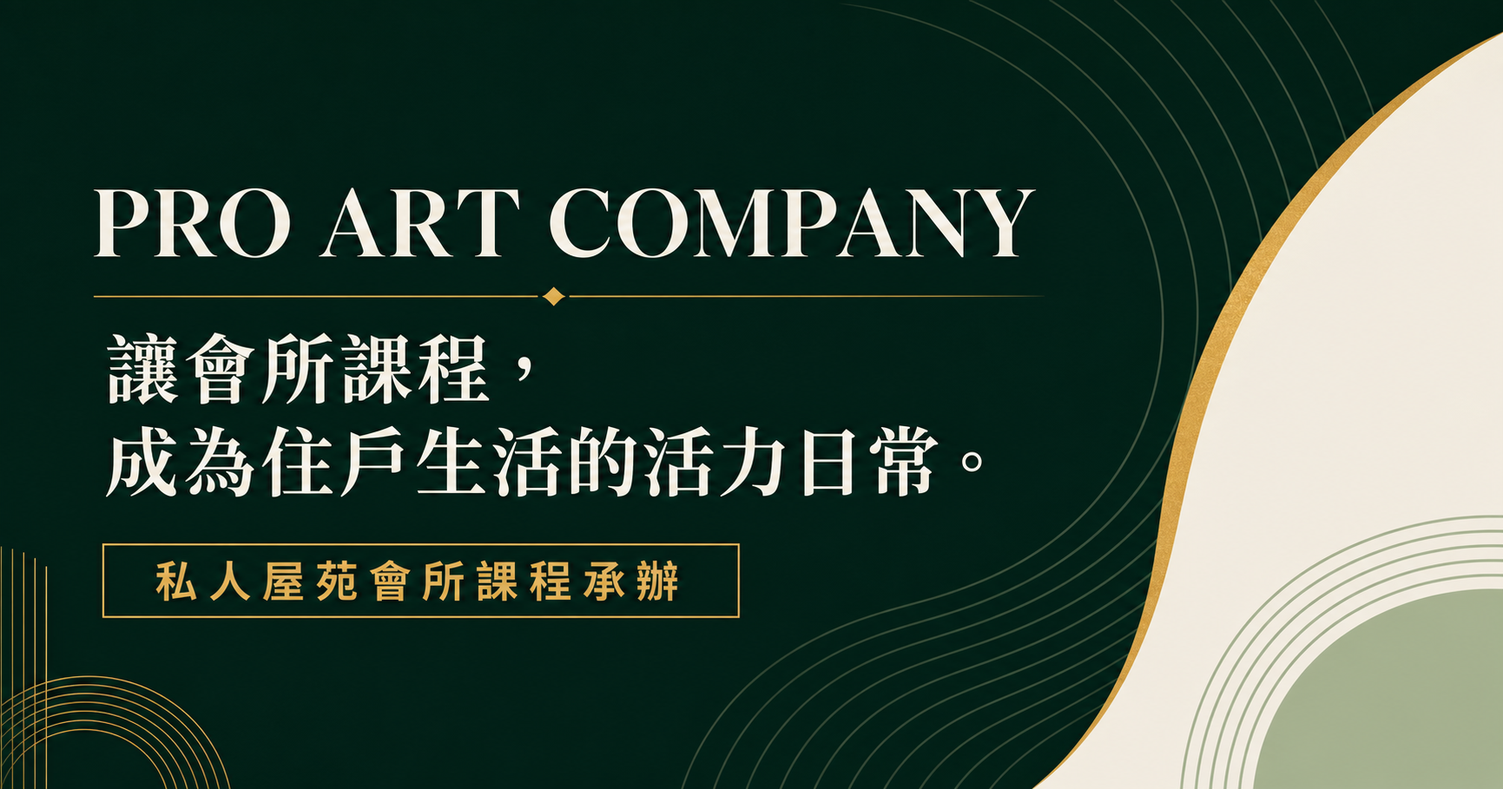
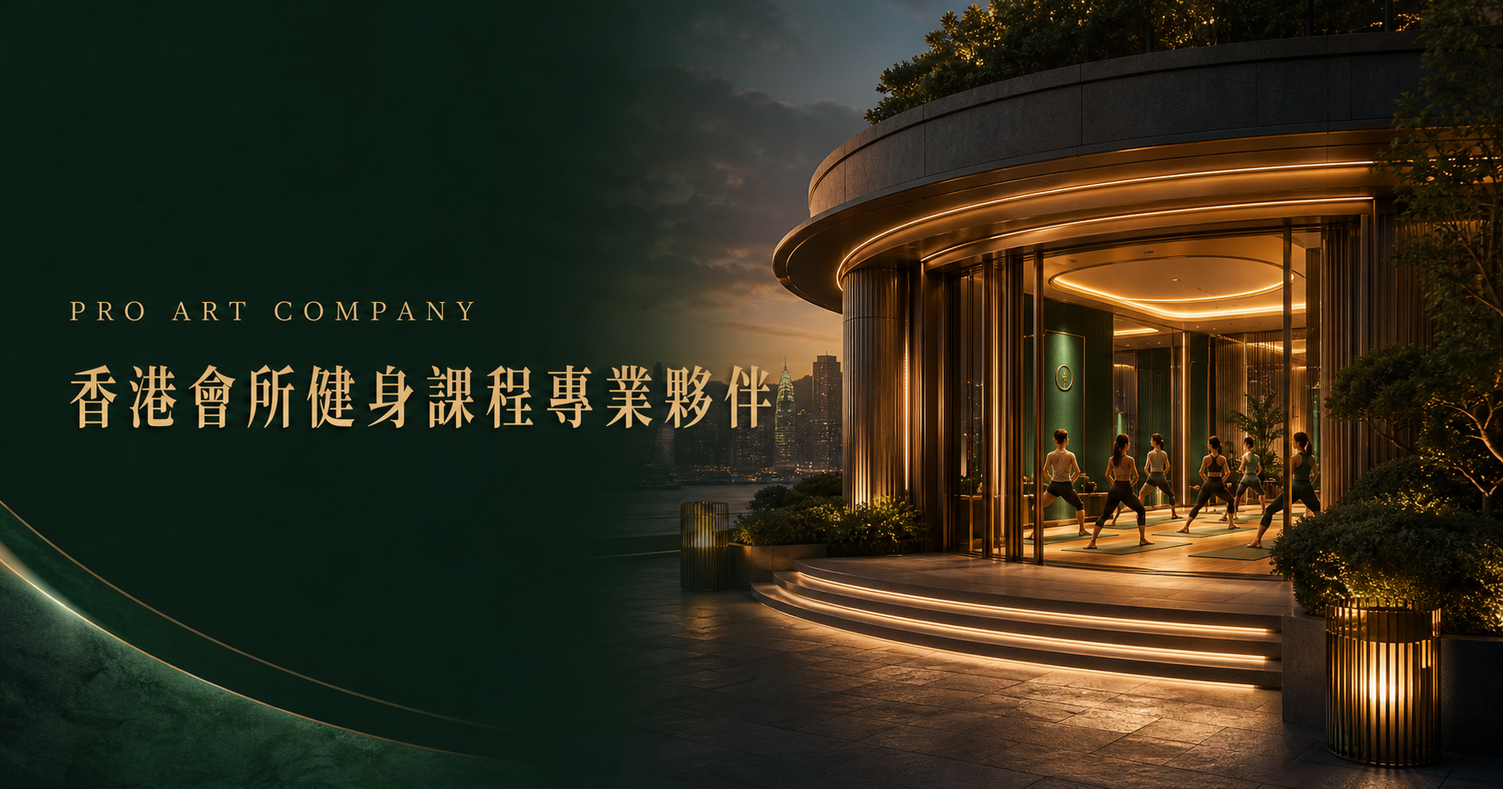
feat: build nine-chapter Pro Art scroll world

diff --git a/app/globals.css b/app/globals.css
@@ -1,22 +1,16 @@
 @import "tailwindcss";
-
-:root{--ink:#10281f;--deep:#092219;--green:#174f3b;--sage:#b8c6a8;--gold:#d8aa52;--cream:#f3efe5;--paper:#fbf9f3;--line:rgba(16,40,31,.16);--scroll:0;--font-sans:-apple-system,BlinkMacSystemFont,"PingFang HK","Noto Sans TC","Microsoft JhengHei",sans-serif;--font-serif:"Songti TC","Noto Serif TC","PMingLiU",Georgia,serif}
-*{box-sizing:border-box}html{scroll-behavior:smooth;overflow-x:hidden}body{margin:0;background:var(--cream);color:var(--ink);font-family:var(--font-sans),"PingFang HK","Microsoft JhengHei",sans-serif;overflow-x:hidden}main{width:100%;overflow:hidden}a{color:inherit;text-decoration:none}button{font:inherit}::selection{background:var(--gold);color:var(--deep)}
-.progress{position:fixed;z-index:100;inset:0 auto auto 0;width:100%;height:3px;background:var(--gold);transform:scaleX(var(--scroll));transform-origin:left}
-.nav-shell{position:absolute;z-index:20;top:0;left:0;width:100%;display:flex;align-items:center;justify-content:space-between;padding:25px clamp(24px,5vw,76px)}
-.brand{display:flex;align-items:center;gap:11px;font:650 14px/1 var(--font-sans);letter-spacing:.14em}.brand small{display:block;font-size:8px;letter-spacing:.29em;margin-top:5px}.brand-mark{width:41px;height:41px;display:grid;place-items:center;border:1px solid currentColor;border-radius:50%;font:600 12px/1 Georgia,serif;letter-spacing:.05em}
-nav{display:flex;align-items:center;gap:30px;font-size:13px}nav a{opacity:.72;transition:.25s}nav a:hover{opacity:1}.nav-cta{opacity:1!important;border:1px solid var(--ink);border-radius:100px;padding:11px 20px}.menu-button{display:none;border:0;background:none;width:40px;height:40px}.menu-button i{display:block;width:24px;height:1px;background:currentColor;margin:7px auto}
-.hero{position:relative;min-height:100svh;padding:160px clamp(24px,7vw,110px) 90px;display:grid;grid-template-columns:1.1fr .7fr;align-items:center;gap:9vw;overflow:hidden;background:radial-gradient(circle at 73% 43%,rgba(216,170,82,.12),transparent 26%),var(--cream)}
-.hero-copy{position:relative;z-index:2;max-width:780px}.eyebrow{font-size:11px;font-weight:750;letter-spacing:.27em;color:var(--green);margin:0 0 25px}.eyebrow.light{color:var(--gold)}h1,h2,h3,p{margin-top:0}.hero h1,.section-intro h2,.services h2,.proof h2,.model h2,.team h2,.contact h2{font-family:var(--font-serif),"Songti TC",Georgia,serif;font-weight:500;letter-spacing:-.035em}.hero h1{font-size:clamp(45px,6.7vw,94px);line-height:1.1;margin:0}.hero h1 em,.contact h2 em{color:var(--green);font-style:normal}.hero-lead{max-width:580px;margin:30px 0 0;color:#4d5f57;font-size:clamp(15px,1.5vw,19px);line-height:1.9}.hero-actions{display:flex;align-items:center;gap:32px;margin-top:38px}.button{display:inline-flex;align-items:center;justify-content:center;gap:35px;border-radius:100px;padding:16px 26px;font-weight:650;font-size:14px;transition:.25s}.button span{font-size:18px}.button-primary{background:var(--green);color:white;box-shadow:0 14px 32px rgba(23,79,59,.2)}.button:hover{transform:translateY(-3px)}.text-link{font-size:13px;border-bottom:1px solid var(--ink);padding:12px 0}.text-link span{margin-left:20px}.hero-card{position:relative;z-index:2;justify-self:center;width:min(340px,90%);aspect-ratio:.78;background:var(--deep);color:var(--cream);border-radius:170px 170px 18px 18px;padding:90px 48px 45px;display:flex;flex-direction:column;align-items:center;text-align:center;box-shadow:30px 40px 80px rgba(9,34,25,.19);transform:translateY(calc(var(--scroll) * 70px))}.card-kicker{font-size:8px;letter-spacing:.24em;color:var(--gold)}.hero-card strong{font:500 clamp(27px,3vw,40px)/1.45 var(--font-serif),serif;margin:28px 0}.card-line{width:1px;height:54px;background:var(--gold)}.hero-card p{font-size:12px;line-height:1.8;color:#bccbc3;margin:20px 0 0}.hero-orbit{position:absolute;border:1px solid rgba(23,79,59,.18);border-radius:50%;aspect-ratio:1}.orbit-one{width:570px;right:-120px;top:13%}.orbit-two{width:370px;right:-20px;top:25%}.scroll-cue{position:absolute;right:5vw;bottom:30px;display:flex;align-items:center;gap:14px;font-size:8px;letter-spacing:.25em;transform:rotate(90deg);transform-origin:right}.scroll-cue i{display:block;width:60px;height:1px;background:var(--ink)}
-.marquee{overflow:hidden;background:var(--gold);color:var(--deep);padding:15px 0;white-space:nowrap;font:650 11px/1 var(--font-sans);letter-spacing:.26em}.marquee div{width:max-content;animation:marquee 25s linear infinite}@keyframes marquee{to{transform:translateX(-50%)}}
-.section-pad{padding:clamp(90px,12vw,175px) clamp(24px,7vw,110px)}.section-intro{display:grid;grid-template-columns:.7fr 1.2fr 1fr;gap:6vw;align-items:start;margin-bottom:90px}.section-intro h2,.services h2,.proof h2,.model h2,.team h2,.contact h2{font-size:clamp(36px,5vw,68px);line-height:1.15;margin:0}.section-intro>p:last-child,.services-sticky>p:last-child,.proof-copy>p:last-child,.model-head>p:last-child{color:#57665f;line-height:1.9;max-width:470px}
-.courses{background:var(--paper)}.course-list{border-top:1px solid var(--line)}.course-row{display:grid;grid-template-columns:80px 1fr .8fr 1.2fr 30px;align-items:center;gap:25px;border-bottom:1px solid var(--line);padding:28px 8px;transition:.3s}.course-row:hover{background:var(--cream);padding-left:22px;padding-right:22px}.course-row>span{font-size:10px;color:var(--gold)}.course-row h3{font:500 clamp(25px,3vw,40px)/1 var(--font-serif),serif;margin:0}.course-row p{font-size:12px;letter-spacing:.13em;margin:0;color:var(--green)}.course-row small{color:#607068}.course-row i{font-style:normal;font-size:20px}
-.services{background:var(--deep);color:var(--cream);display:grid;grid-template-columns:.9fr 1fr;gap:9vw;align-items:start}.services-sticky{position:sticky;top:100px}.services-sticky>p:last-child{color:#9eafa6;margin-top:32px}.benefit-stack{display:grid;gap:22px}.benefit-card{position:sticky;top:110px;background:#123b2e;border:1px solid rgba(255,255,255,.1);border-radius:22px;padding:35px;min-height:270px;box-shadow:0 20px 45px rgba(0,0,0,.16)}.benefit-card:nth-child(2){top:130px}.benefit-card:nth-child(3){top:150px}.benefit-card:nth-child(4){top:170px}.benefit-card>span{font-size:10px;color:var(--gold)}.benefit-icon{float:right;font:200 40px/1 serif;color:var(--gold)}.benefit-card h3{font:500 29px/1.3 var(--font-serif),serif;margin:72px 0 16px}.benefit-card p{color:#a9bab1;line-height:1.8;font-size:14px;max-width:430px}
-.proof{background:var(--sage)}.proof-copy{display:grid;grid-template-columns:.7fr 1.2fr 1fr;gap:6vw;align-items:start}.stats{display:grid;grid-template-columns:repeat(3,1fr);margin-top:95px;border-top:1px solid rgba(16,40,31,.28);border-bottom:1px solid rgba(16,40,31,.28)}.stats>div{padding:50px 20px}.stats>div+div{border-left:1px solid rgba(16,40,31,.28)}.stats strong{font:500 clamp(70px,10vw,145px)/.85 var(--font-serif),serif;letter-spacing:-.07em}.stats strong span{font-size:.4em;color:var(--green)}.stats p{font-weight:700;margin:28px 0 6px}.stats small{font-size:8px;letter-spacing:.2em}.privacy-note{text-align:right;font-size:11px;opacity:.6;margin-top:18px}
-.model{background:var(--green);color:var(--cream);display:grid;grid-template-columns:.9fr 1fr;gap:10vw}.model-head>p:last-child{color:#b3c4bb}.split{display:grid;grid-template-columns:auto auto 1fr auto auto;align-items:end;gap:10px;margin:55px 0 25px}.split strong{font:500 clamp(52px,7vw,90px)/1 var(--font-serif),serif;color:var(--gold)}.split small{font-size:.35em}.split span{font-size:11px;margin-bottom:10px}.split i{height:1px;background:rgba(255,255,255,.25);margin:0 10px 15px}.process{border-top:1px solid rgba(255,255,255,.22)}.process article{display:grid;grid-template-columns:60px 1fr;gap:25px;padding:30px 5px;border-bottom:1px solid rgba(255,255,255,.22)}.process>article>span{color:var(--gold);font-size:10px}.process h3{font:500 26px/1.2 var(--font-serif),serif;margin-bottom:10px}.process p{font-size:13px;line-height:1.7;color:#b3c4bb}
-.team{background:var(--cream);display:grid;grid-template-columns:.8fr 1fr;gap:8vw;align-items:center}.team-placeholder{min-height:420px;border:1px solid var(--line);border-radius:220px 220px 24px 24px;padding:70px 60px 45px;text-align:center;background:var(--paper);overflow:hidden}.team-rings{display:flex;justify-content:center;margin-bottom:40px}.team-rings i{width:72px;height:72px;border:1px solid var(--green);border-radius:50%;margin-left:-14px;background:var(--paper)}.team-placeholder span{font-size:9px;color:var(--gold);letter-spacing:.25em}.team-placeholder h3{font:500 28px/1.3 var(--font-serif),serif;margin:15px 0}.team-placeholder p{max-width:480px;margin:auto;color:#607068;line-height:1.8;font-size:14px}
-.contact{background:var(--deep);color:var(--cream)}.contact-grid{display:grid;grid-template-columns:1fr .9fr;gap:9vw}.contact h2{font-size:clamp(48px,7vw,92px)}.contact h2 em{color:var(--gold)}.contact-grid>div>p{color:#a2b4aa;max-width:500px;line-height:1.8;margin:30px 0}.button-gold{background:var(--gold);color:var(--deep)}address{font-style:normal;border-top:1px solid rgba(255,255,255,.2)}address>a,address>div{display:block;padding:26px 0;border-bottom:1px solid rgba(255,255,255,.2)}address small{display:block;font-size:8px;letter-spacing:.23em;color:var(--gold);margin-bottom:10px}address strong{font-size:clamp(15px,1.5vw,20px);line-height:1.6;word-break:break-word}address span{display:block;color:#82958b;font-size:11px;line-height:1.6;margin-top:8px}
-footer{background:#061812;color:#95a89f;padding:35px clamp(24px,7vw,110px);display:grid;grid-template-columns:1fr 1fr 1fr;align-items:center;font-size:11px}footer p{text-align:center;margin:0}.footer-brand{color:var(--cream)}footer>small{text-align:right}
-[data-reveal]{opacity:0;transform:translateY(35px);transition:opacity .8s ease,transform .8s cubic-bezier(.2,.7,.2,1)}[data-reveal].is-visible{opacity:1;transform:none}
-@media(max-width:800px){.nav-shell{position:absolute;padding:18px 20px}.menu-button{display:block;z-index:2}nav{display:none;position:absolute;top:0;right:0;width:min(330px,88vw);height:100vh;background:var(--paper);padding:100px 35px;flex-direction:column;align-items:flex-start;box-shadow:-20px 0 50px rgba(0,0,0,.1)}nav.open{display:flex}.hero{grid-template-columns:1fr;padding:130px 24px 90px}.hero-card{display:none}.hero h1{font-size:clamp(43px,13vw,68px)}.orbit-one{width:380px}.scroll-cue{display:none}.section-intro,.proof-copy,.services,.model,.team,.contact-grid{grid-template-columns:1fr}.section-intro{margin-bottom:55px}.course-row{grid-template-columns:35px 1fr auto}.course-row p{display:none}.course-row small{grid-column:2/4}.services-sticky{position:relative;top:0;margin-bottom:30px}.benefit-card,.benefit-card:nth-child(n){position:relative;top:0}.stats{grid-template-columns:1fr}.stats>div+div{border-left:0;border-top:1px solid rgba(16,40,31,.28)}.stats>div{padding:35px 5px}.stats strong{font-size:90px}.privacy-note{text-align:left}.team-placeholder{padding:65px 25px 40px;min-height:380px}.contact-grid{gap:60px}footer{grid-template-columns:1fr;gap:22px;text-align:center}footer p,footer>small{text-align:center}.footer-brand{justify-self:center}}
-@media(prefers-reduced-motion:reduce){html{scroll-behavior:auto}.marquee div{animation:none}[data-reveal]{opacity:1;transform:none;transition:none}.hero-card{transform:none}}
+:root{--green:#1e5b41;--gold:#c8a45d;--ink:#08150f;--cream:#f7f4ee;--ease:cubic-bezier(.16,1,.3,1)}
+*{box-sizing:border-box}html{background:var(--ink);scrollbar-color:var(--gold) var(--ink)}body{margin:0;color:var(--cream);font-family:-apple-system,BlinkMacSystemFont,"PingFang HK","Noto Sans TC",sans-serif;background:var(--ink);overflow-x:hidden}a{color:inherit;text-decoration:none}::selection{background:var(--gold);color:var(--ink)}
+.world-canvas{position:fixed;inset:0;width:100%;height:100%;z-index:1;pointer-events:none;mix-blend-mode:screen}.nav{position:fixed;inset:0 0 auto;z-index:50;height:86px;padding:18px clamp(18px,4vw,64px);display:flex;align-items:center;justify-content:space-between;background:linear-gradient(#07150fbb,transparent)}.brand{display:flex;align-items:center;gap:11px;font-size:13px;font-weight:700;letter-spacing:.17em}.brand small{display:block;font-size:7px;letter-spacing:.32em;margin-top:4px}.brand-disc{width:42px;height:42px;border:1px solid #ffffff99;border-radius:50%;display:grid;place-items:center;font-family:Georgia,serif;font-size:11px;letter-spacing:.03em}.nav-cta{border:1px solid #ffffff66;border-radius:30px;padding:12px 18px;font-size:12px;font-weight:650;backdrop-filter:blur(12px);transition:.3s}.nav-cta:hover{background:var(--gold);border-color:var(--gold);color:var(--ink)}.nav-world{position:absolute;left:50%;transform:translateX(-50%);display:flex;align-items:center;gap:12px;color:#ffffff99;font-size:9px;letter-spacing:.18em}.nav-world i{display:block;width:110px;height:1px;background:#ffffff2c;position:relative}.nav-world i:after{content:"";position:absolute;inset:0;background:var(--gold);transform-origin:left;transform:scaleX(var(--p))}
+.rail{position:fixed;z-index:30;right:20px;top:50%;transform:translateY(-50%);display:flex;flex-direction:column;gap:8px}.rail a{height:18px;display:flex;align-items:center;justify-content:flex-end;gap:8px;color:#ffffff66;font-size:7px}.rail i{display:block;width:10px;height:1px;background:currentColor;transition:.4s}.rail a.active{color:var(--gold)}.rail a.active i{width:28px}
+.chapter{position:relative;min-height:100svh;overflow:hidden;display:flex;align-items:center;padding:130px clamp(24px,8vw,130px) 105px;isolation:isolate}.scene{position:absolute;inset:0;z-index:-4;overflow:hidden;background:var(--green)}.scene-image{object-fit:cover;transform:scale(1.02);will-change:transform,filter}.scene-grade{position:absolute;inset:0;background:linear-gradient(90deg,rgba(5,16,11,.9) 0%,rgba(5,16,11,.55) 45%,rgba(5,16,11,.16) 72%),linear-gradient(0deg,rgba(4,14,10,.55),transparent 40%,rgba(4,14,10,.35))}.copy-right{justify-content:flex-end}.copy-right .scene-grade{background:linear-gradient(-90deg,rgba(5,16,11,.91),rgba(5,16,11,.5) 48%,rgba(5,16,11,.1) 78%),linear-gradient(0deg,rgba(4,14,10,.6),transparent 50%)}.chapter-copy{width:min(670px,75vw);position:relative;z-index:4}.kicker{display:flex;align-items:center;gap:14px;font-size:10px;font-weight:750;letter-spacing:.25em;color:#fffbdc;margin:0 0 26px}.kicker span{display:grid;place-items:center;width:34px;height:34px;border:1px solid var(--gold);border-radius:50%;color:var(--gold);letter-spacing:0}.chapter h1{font-family:"Songti TC","Noto Serif TC",Georgia,serif;font-size:clamp(46px,6.5vw,96px);font-weight:500;letter-spacing:-.06em;line-height:1.04;margin:0;text-wrap:balance;text-shadow:0 3px 30px #0006}.chapter h1 span{display:block}.chapter-text{max-width:580px;color:#eef3edcc;font-size:clamp(14px,1.3vw,18px);line-height:1.85;margin:26px 0 0}.badge{display:inline-flex;align-items:center;gap:9px;margin:18px 0 0;padding:8px 13px;border:1px solid #ffffff33;border-radius:50px;background:#06150e77;font-size:10px;letter-spacing:.1em}.badge i{width:6px;height:6px;border-radius:50%;background:var(--gold);box-shadow:0 0 15px var(--gold)}.chapter-cta{display:flex;width:max-content;align-items:center;gap:24px;border-bottom:1px solid var(--gold);padding:13px 0;margin-top:26px;font-size:13px;font-weight:650}.chapter-cta span{color:var(--gold)}.chapter-foot{position:absolute;z-index:5;left:clamp(24px,4vw,64px);right:clamp(24px,4vw,64px);bottom:28px;display:grid;grid-template-columns:70px auto 1fr;align-items:center;gap:15px;color:#ffffff77;font-size:8px;letter-spacing:.2em;text-transform:uppercase}.chapter-foot i{height:1px;background:#ffffff28}
+.chapter-door .scene{clip-path:inset(0)}.door-panels,.elevator-panels,.curtains{position:absolute;inset:0;z-index:3;pointer-events:none}.door-panels i{position:absolute;top:0;bottom:0;width:50%;background:linear-gradient(120deg,#082117,#173f30);transform-origin:left;animation:door-open linear both;animation-timeline:view();animation-range:entry 0% entry 65%}.door-panels i+ i{right:0;transform-origin:right;animation-name:door-open-r}@keyframes door-open{to{transform:perspective(900px) rotateY(-105deg)}}@keyframes door-open-r{to{transform:perspective(900px) rotateY(105deg)}}
+.chapter-mirror:after{content:"";position:absolute;inset:-20%;z-index:2;background:linear-gradient(105deg,transparent 35%,#fff9 49%,#c8a45daa 50%,transparent 63%);transform:translateX(-80%);animation:mirror-sweep linear both;animation-timeline:view();animation-range:entry 0% entry 70%}@keyframes mirror-sweep{to{transform:translateX(80%)}}
+.elevator-panels{display:flex}.elevator-panels i{width:50%;height:100%;background:linear-gradient(90deg,#101713,#415049,#101713);animation:elevator-left linear both;animation-timeline:view();animation-range:entry 8% entry 70%}.elevator-panels i+ i{animation-name:elevator-right}.elevator-panels b{position:absolute;left:50%;top:15%;transform:translateX(-50%);color:var(--gold);font:400 12px/1 monospace}@keyframes elevator-left{to{transform:translateX(-100%)}}@keyframes elevator-right{to{transform:translateX(100%)}}
+.curtains{display:flex}.curtains i{width:51%;height:100%;background:repeating-linear-gradient(90deg,#132f25 0,#285841 6%,#0c241a 12%);filter:drop-shadow(10px 0 20px #000);animation:curtain-left linear both;animation-timeline:view();animation-range:entry 5% entry 65%}.curtains i+ i{animation-name:curtain-right}@keyframes curtain-left{to{transform:translateX(-96%) skewX(4deg)}}@keyframes curtain-right{to{transform:translateX(96%) skewX(-4deg)}}
+.chapter-prism:after{content:"";position:absolute;inset:0;z-index:2;background:conic-gradient(from 30deg at 65% 40%,transparent,#d8faffaa,#ffd67c99,#66e3b966,transparent);mix-blend-mode:screen;animation:prism linear both;animation-timeline:view();animation-range:entry 0 entry 60%}@keyframes prism{from{opacity:1;transform:scale(2) rotate(-15deg)}to{opacity:0;transform:scale(.6) rotate(20deg)}}
+.ripples{position:absolute;z-index:3;inset:0;display:grid;place-items:center;pointer-events:none}.ripples i{position:absolute;width:20vmin;aspect-ratio:1;border:2px solid #e4fff4aa;border-radius:50%;animation:ripple linear both;animation-timeline:view();animation-range:entry 0% entry 68%}.ripples i:nth-child(2){animation-delay:.08s}.ripples i:nth-child(3){animation-delay:.16s}@keyframes ripple{to{transform:scale(11);opacity:0}}
+.trust-grid{display:grid;grid-template-columns:repeat(4,1fr);margin-top:28px;border-top:1px solid #ffffff3d;border-bottom:1px solid #ffffff3d}.trust-grid>div{padding:17px 12px;border-right:1px solid #ffffff2d}.trust-grid strong{display:block;font:500 clamp(31px,4vw,56px)/1 Georgia,serif;color:var(--gold)}.trust-grid sup{font-size:.4em}.trust-grid small{font-size:.45em}.trust-grid span{font-size:9px;color:#ffffffaa}.final-actions{display:flex;gap:12px;margin-top:32px}.cta{border-radius:100px;padding:16px 22px;font-size:13px;font-weight:700}.cta.primary{background:var(--gold);color:var(--ink)}.cta.secondary{border:1px solid #ffffff66;backdrop-filter:blur(12px)}
+.team-note{text-align:center;padding:90px 24px;background:var(--cream);color:var(--green)}.team-note>span{font-size:9px;letter-spacing:.22em;color:#8d713d}.team-note h2{font:500 clamp(30px,4vw,52px)/1.2 "Songti TC","Noto Serif TC",serif;margin:18px 0}.team-note p{font-size:13px;color:#4e675b}.team-note+footer{position:relative;z-index:4}footer{background:#06120d;padding:50px clamp(24px,6vw,90px);display:grid;grid-template-columns:1.1fr 1fr 1.4fr auto;gap:35px;align-items:center;color:#b7c1bb;font-size:11px}.footer-brand{display:flex;align-items:center;gap:13px;color:white}.footer-brand strong,.footer-brand span{display:block}.footer-brand span{margin-top:5px;font-size:9px;color:#91a299}.footer-links{display:flex;flex-direction:column;gap:8px}address{font-style:normal;line-height:1.7}.wa-float{position:fixed;z-index:80;right:22px;bottom:22px;display:flex;align-items:center;gap:10px;background:#25d366;color:#07150e;border:4px solid #ffffff33;border-radius:100px;padding:7px 14px 7px 7px;box-shadow:0 12px 40px #0007;font-size:11px;font-weight:800}.wa-float>span{width:38px;height:38px;border-radius:50%;background:white;display:grid;place-items:center;font-size:9px}.wa-float i{font-style:normal}
+@media(max-width:760px){.nav{height:70px;padding:13px 16px}.brand-disc{width:38px;height:38px}.nav-world,.rail{display:none}.nav-cta{padding:10px 13px}.nav-cta span{display:none}.chapter{min-height:100svh;padding:110px 22px 100px;align-items:flex-end}.chapter-copy{width:100%}.chapter h1{font-size:clamp(41px,12.5vw,62px);line-height:1.05}.chapter-text{font-size:14px;line-height:1.7;margin-top:18px}.scene-image{object-position:57% center}.scene-grade,.copy-right .scene-grade{background:linear-gradient(0deg,rgba(5,16,11,.97) 2%,rgba(5,16,11,.68) 48%,rgba(5,16,11,.12) 82%)}.kicker{margin-bottom:15px}.chapter-cta{font-size:12px;margin-top:18px}.chapter-foot{bottom:19px;left:22px;right:22px}.trust-grid{grid-template-columns:repeat(2,1fr)}.trust-grid>div:nth-child(2){border-right:0}.trust-grid>div:nth-child(-n+2){border-bottom:1px solid #ffffff2d}.final-actions{flex-direction:column;width:max-content}.cta{text-align:center}.wa-float{right:14px;bottom:14px;padding:5px;border-width:3px}.wa-float>span{width:43px;height:43px}.wa-float i{display:none}footer{grid-template-columns:1fr;gap:24px;padding-bottom:100px}footer>small{color:#748279}.team-note{padding:75px 24px}.chapter-ripple{padding-top:86px}.chapter-ripple h1{font-size:40px}.chapter-ripple .chapter-text{margin-bottom:8px}}
+@media(prefers-reduced-motion:reduce){html{scroll-behavior:auto}.world-canvas{display:none}.scene-image,.door-panels i,.elevator-panels i,.curtains i,.chapter-mirror:after,.chapter-prism:after,.ripples i{animation:none!important;transform:none!important}.door-panels,.elevator-panels,.curtains,.chapter-mirror:after,.chapter-prism:after,.ripples{display:none}.chapter-copy{opacity:1!important;transform:none!important}}

diff --git a/app/page.tsx b/app/page.tsx
@@ -1,132 +1,114 @@
 "use client";
 
-import { useEffect, useState } from "react";
+import { useEffect, useRef, useState } from "react";
+import Image from "next/image";
+import Lenis from "lenis";
+import gsap from "gsap";
+import { ScrollTrigger } from "gsap/ScrollTrigger";
+import * as THREE from "three";
 
-const courses = [
-  { no: "01", zh: "瑜伽", en: "Yoga", note: "呼吸・伸展・身心平衡" },
-  { no: "02", zh: "普拉提", en: "Pilates", note: "核心・姿勢・穩定訓練" },
-  { no: "03", zh: "健康舞", en: "Aerobic", note: "帶氧・節奏・活力體能" },
-  { no: "04", zh: "尊巴", en: "Zumba", note: "音樂・舞動・全身燃動" },
-  { no: "05", zh: "排舞", en: "Line Dance", note: "步法・協調・社交樂趣" },
+const message = encodeURIComponent("你好，我哋會所想查詢健身課程合作方案。");
+const whatsapp = `https://wa.me/85296803500?text=${message}`;
+
+type Chapter = {
+  no: string; kicker: string; title: string; text: string; image: string;
+  transition: string; transitionLabel: string; badge?: string; align?: "left" | "right";
+};
+
+const chapters: Chapter[] = [
+  { no:"01", kicker:"WELCOME TO PRO ART", title:"踏進一個\n更有活力的社區。", text:"Pro Art Company — 香港私人屋苑會所嘅專業健身課程夥伴。", image:"/images/hero-clubhouse.png", transition:"push", transitionLabel:"鏡頭推進" },
+  { no:"02", kicker:"THE STUDIO AWAITS", title:"五種節奏，\n一個專業夥伴。", text:"瑜伽・普拉提・健康舞・Zumba・排舞，由策劃、導師到行政，一站式妥善處理。", image:"/images/hero-clubhouse.png", transition:"door", transitionLabel:"開門過場", align:"right" },
+  { no:"03", kicker:"YOGA · 瑜伽", title:"由一呼一吸，\n找回身心平衡。", text:"配合不同程度，以呼吸、伸展與穩定練習，讓住戶建立持續的健康習慣。", image:"/images/course-yoga.png", transition:"fly", transitionLabel:"穿越門框", badge:"每週人氣課程" },
+  { no:"04", kicker:"LINE DANCE · 排舞", title:"一步一拍，\n舞出社區默契。", text:"由基本步法到完整舞序，兼顧協調、記憶與社交樂趣，適合恆常小班。", image:"/images/course-linedance.png", transition:"mirror", transitionLabel:"鏡面穿越", align:"right", badge:"輕鬆入門" },
+  { no:"05", kicker:"PILATES · 普拉提", title:"核心穩定，\n動作更有力量。", text:"集中核心控制、姿勢與身體覺察，為不同體能住戶設計循序漸進的課堂。", image:"/images/course-yoga.png", transition:"elevator", transitionLabel:"電梯轉場", badge:"小班指導" },
+  { no:"06", kicker:"AEROBIC · 健康舞", title:"拉開布幕，\n讓活力登場。", text:"簡單易跟的帶氧動作配合熟悉節奏，提升心肺體能，讓運動變成每週期待。", image:"/images/course-linedance.png", transition:"curtain", transitionLabel:"布幕揭曉", align:"right", badge:"銀齡友善" },
+  { no:"07", kicker:"ZUMBA · 尊巴", title:"音樂亮起，\n全身投入節奏。", text:"融合舞蹈與帶氧訓練，氣氛投入、動感十足，為會所注入最直接的快樂能量。", image:"/images/course-zumba.png", transition:"prism", transitionLabel:"稜鏡折射", badge:"高能量體驗" },
+  { no:"08", kicker:"TRUSTED EXPERIENCE", title:"合作簡單，\n成效看得見。", text:"與香港多間私人屋苑會所長期合作。靈活分成、毋須固定成本，開班與行政都更省心。", image:"/images/hero-clubhouse.png", transition:"ripple", transitionLabel:"漣漪擴散", align:"right" },
+  { no:"09", kicker:"OUR VISION", title:"將健康與快樂，\n帶到每一個屋苑會所。", text:"住戶落樓，就能享受專業而愉快的運動體驗。讓每一座屋苑會所，都成為社區的活力中心。", image:"/images/hero-clubhouse.png", transition:"pull", transitionLabel:"鏡頭拉遠" },
 ];
 
-const benefits = [
-  ["01", "到會式教學", "導師按課程時間到達會所授課，善用現有場地，毋須另設專用設施。"],
-  ["02", "度身訂造", "按屋苑住戶年齡、興趣及時段規劃課程組合，提升參與度。"],
-  ["03", "一站式行政", "由課程建議、宣傳素材、開班協調至每月賬單，流程清晰省心。"],
-  ["04", "專業導師配對", "按課程需要安排合適合約導師，確保教學質素與課堂體驗。"],
-];
-
-const steps = [
-  ["01", "洽談", "了解會所場地、住戶需要及營運安排"],
-  ["02", "規劃", "建議課程組合、時段、收費及招生活動"],
-  ["03", "開班", "達到最低報名人數後安排導師到會授課"],
-  ["04", "結算", "按實收學費分賬，承辦方每月發出賬單"],
-];
+function WorldCanvas() {
+  const ref = useRef<HTMLCanvasElement>(null);
+  useEffect(() => {
+    const canvas = ref.current;
+    if (!canvas || !window.WebGLRenderingContext || matchMedia("(prefers-reduced-motion: reduce)").matches) return;
+    let renderer: THREE.WebGLRenderer;
+    try { renderer = new THREE.WebGLRenderer({ canvas, alpha:true, antialias:false, powerPreference:"low-power" }); }
+    catch { document.documentElement.classList.add("no-webgl"); return; }
+    renderer.setPixelRatio(Math.min(devicePixelRatio, 1.4));
+    const scene = new THREE.Scene();
+    const camera = new THREE.PerspectiveCamera(55, innerWidth / innerHeight, .1, 100);
+    camera.position.z = 7;
+    const geo = new THREE.IcosahedronGeometry(2.25, innerWidth < 800 ? 1 : 2);
+    const mat = new THREE.MeshBasicMaterial({ color:0xc8a45d, wireframe:true, transparent:true, opacity:.17 });
+    const orb = new THREE.Mesh(geo, mat); scene.add(orb);
+    const dotsGeo = new THREE.BufferGeometry();
+    const count = innerWidth < 800 ? 80 : 180;
+    const points = new Float32Array(count * 3);
+    for(let i=0;i<points.length;i++) points[i]=(Math.random()-.5)*13;
+    dotsGeo.setAttribute("position",new THREE.BufferAttribute(points,3));
+    scene.add(new THREE.Points(dotsGeo,new THREE.PointsMaterial({color:0xf7f4ee,size:.025,transparent:true,opacity:.45})));
+    const resize=()=>{ camera.aspect=innerWidth/innerHeight; camera.updateProjectionMatrix(); renderer.setSize(innerWidth,innerHeight,false); };
+    resize(); addEventListener("resize",resize);
+    let id=0;
+    const frame=()=>{ const s=scrollY/Math.max(1,document.body.scrollHeight-innerHeight); orb.rotation.x=s*Math.PI*3; orb.rotation.y=s*Math.PI*5; orb.scale.setScalar(.75+s*1.4); renderer.render(scene,camera); id=requestAnimationFrame(frame); };
+    frame();
+    return()=>{cancelAnimationFrame(id);removeEventListener("resize",resize);geo.dispose();mat.dispose();dotsGeo.dispose();renderer.dispose();};
+  },[]);
+  return <canvas ref={ref} className="world-canvas" aria-hidden="true"/>;
+}
 
 export default function Home() {
-  const [menuOpen, setMenuOpen] = useState(false);
+  const [active,setActive]=useState(1);
+  useEffect(()=>{
+    gsap.registerPlugin(ScrollTrigger);
+    const reduce=matchMedia("(prefers-reduced-motion: reduce)").matches;
+    const lenis=reduce?null:new Lenis({duration:1.05,smoothWheel:true,wheelMultiplier:.9});
+    let raf=0;
+    const tick=(t:number)=>{lenis?.raf(t);raf=requestAnimationFrame(tick)}; if(lenis) raf=requestAnimationFrame(tick);
+    const sections=gsap.utils.toArray<HTMLElement>(".chapter");
+    sections.forEach((section,i)=>{
+      ScrollTrigger.create({trigger:section,start:"top 55%",end:"bottom 55%",onEnter:()=>setActive(i+1),onEnterBack:()=>setActive(i+1)});
+      if(reduce)return;
+      const scene=section.querySelector(".scene-image"); const copy=section.querySelector(".chapter-copy");
+      gsap.fromTo(copy,{y:70,opacity:0},{y:0,opacity:1,ease:"power3.out",scrollTrigger:{trigger:section,start:"top 72%",end:"top 33%",scrub:1}});
+      if(section.dataset.transition==="push") gsap.fromTo(scene,{scale:1},{scale:1.28,scrollTrigger:{trigger:section,start:"top top",end:"bottom top",scrub:true}});
+      if(section.dataset.transition==="fly") gsap.fromTo(scene,{scale:1.25,filter:"blur(8px)"},{scale:1,filter:"blur(0px)",scrollTrigger:{trigger:section,start:"top bottom",end:"top 20%",scrub:true}});
+      if(section.dataset.transition==="mirror") gsap.fromTo(scene,{scaleX:-1,filter:"brightness(1.8)"},{scaleX:1,filter:"brightness(1)",scrollTrigger:{trigger:section,start:"top bottom",end:"top 25%",scrub:true}});
+      if(section.dataset.transition==="prism") gsap.fromTo(scene,{filter:"hue-rotate(80deg) saturate(2) brightness(2)"},{filter:"hue-rotate(0deg) saturate(1) brightness(.82)",scrollTrigger:{trigger:section,start:"top bottom",end:"top 25%",scrub:true}});
+      if(section.dataset.transition==="pull") gsap.fromTo(scene,{scale:1.4},{scale:.94,scrollTrigger:{trigger:section,start:"top bottom",end:"bottom bottom",scrub:true}});
+    });
+    return()=>{cancelAnimationFrame(raf);lenis?.destroy();ScrollTrigger.getAll().forEach(t=>t.kill());};
+  },[]);
 
-  useEffect(() => {
-    const nodes = document.querySelectorAll<HTMLElement>("[data-reveal]");
-    const observer = new IntersectionObserver(
-      (entries) => entries.forEach((entry) => entry.isIntersecting && entry.target.classList.add("is-visible")),
-      { threshold: 0.16 }
-    );
-    nodes.forEach((node) => observer.observe(node));
+  return <main id="top">
+    <WorldCanvas/>
+    <header className="nav">
+      <a href="#top" className="brand" aria-label="Pro Art Company 首頁"><span className="brand-disc">PA</span><span>PRO ART<small>COMPANY</small></span></a>
+      <div className="nav-world" aria-hidden="true"><i style={{"--p":`${active/9}`} as React.CSSProperties}/><span>{String(active).padStart(2,"0")} / 09</span></div>
+      <a className="nav-cta" href={whatsapp} target="_blank" rel="noreferrer">查詢合作 <span>↗</span></a>
+    </header>
+    <aside className="rail" aria-label="章節進度">{chapters.map((c,i)=><a key={c.no} href={`#chapter-${c.no}`} className={active===i+1?"active":""} aria-label={`前往第 ${i+1} 章`}><i/><span>{c.no}</span></a>)}</aside>
 
-    const onScroll = () => {
-      document.documentElement.style.setProperty("--scroll", `${window.scrollY / Math.max(1, document.documentElement.scrollHeight - innerHeight)}`);
-    };
-    onScroll();
-    addEventListener("scroll", onScroll, { passive: true });
-    return () => { observer.disconnect(); removeEventListener("scroll", onScroll); };
-  }, []);
+    {chapters.map((c,i)=><section key={c.no} id={`chapter-${c.no}`} className={`chapter chapter-${c.transition} ${c.align==="right"?"copy-right":""}`} data-transition={c.transition}>
+      <div className="scene" aria-hidden="true"><Image className="scene-image" src={c.image} alt="" fill priority={i<2} sizes="100vw" unoptimized/><div className="scene-grade"/></div>
+      {c.transition==="door"&&<div className="door-panels" aria-hidden="true"><i/><i/></div>}
+      {c.transition==="elevator"&&<div className="elevator-panels" aria-hidden="true"><i/><i/><b>05</b></div>}
+      {c.transition==="curtain"&&<div className="curtains" aria-hidden="true"><i/><i/></div>}
+      {c.transition==="ripple"&&<div className="ripples" aria-hidden="true"><i/><i/><i/></div>}
+      <div className="chapter-copy">
+        <p className="kicker"><span>{c.no}</span>{c.kicker}</p>
+        <h1>{c.title.split("\n").map((line,n)=><span key={n}>{line}</span>)}</h1>
+        <p className="chapter-text">{c.text}</p>
+        {c.badge&&<p className="badge"><i/> {c.badge}</p>}
+        {i===7&&<div className="trust-grid"><div><strong>4<sup>+</sup></strong><span>合作會所</span></div><div><strong>15<sup>+</sup></strong><span>每週班次</span></div><div><strong>5</strong><span>課程類別</span></div><div className="share"><strong>60<small>/40</small></strong><span>靈活分成模式</span></div></div>}
+        {i===8?<div className="final-actions"><a className="cta primary" href={whatsapp} target="_blank" rel="noreferrer">WhatsApp 與我哋合作 <span>↗</span></a><a className="cta secondary" href="mailto:proartcompanyhk@gmail.com">Email 查詢</a></div>:<a className="chapter-cta" href={whatsapp} target="_blank" rel="noreferrer">{i<2?"開始規劃會所課程":"想喺你嘅會所開辦呢個課程？"}<span>↗</span></a>}
+      </div>
+      <div className="chapter-foot"><span>{c.no} / 09</span><span>{c.transitionLabel}</span><i/></div>
+    </section>)}
 
-  const closeMenu = () => setMenuOpen(false);
-
-  return (
-    <main>
-      <div className="progress" aria-hidden="true" />
-      <header className="nav-shell">
-        <a className="brand" href="#top" aria-label="Pro Art Company 首頁" onClick={closeMenu}>
-          <span className="brand-mark">PA</span><span>PRO ART <small>COMPANY</small></span>
-        </a>
-        <button className="menu-button" aria-label="開啟導覽選單" aria-expanded={menuOpen} onClick={() => setMenuOpen(!menuOpen)}><i /><i /></button>
-        <nav className={menuOpen ? "open" : ""} aria-label="主要導覽">
-          <a href="#courses" onClick={closeMenu}>課程</a><a href="#services" onClick={closeMenu}>服務</a><a href="#model" onClick={closeMenu}>合作模式</a><a href="#team" onClick={closeMenu}>導師團隊</a>
-          <a className="nav-cta" href="#contact" onClick={closeMenu}>查詢合作</a>
-        </nav>
-      </header>
-
-      <section className="hero" id="top">
-        <div className="hero-orbit orbit-one" aria-hidden="true" /><div className="hero-orbit orbit-two" aria-hidden="true" />
-        <div className="hero-copy">
-          <p className="eyebrow" data-reveal>HONG KONG · CLUBHOUSE FITNESS</p>
-          <h1 data-reveal>讓會所課程，<br />成為住戶生活的<br /><em>活力日常。</em></h1>
-          <p className="hero-lead" data-reveal>為香港私人屋苑會所策劃及承辦專業健身與興趣課程。由規劃、導師到行政結算，一站式妥善處理。</p>
-          <div className="hero-actions" data-reveal>
-            <a className="button button-primary" href="#contact">查詢合作 <span>↗</span></a>
-            <a className="text-link" href="#courses">探索課程 <span>↓</span></a>
-          </div>
-        </div>
-        <div className="hero-card" data-reveal>
-          <span className="card-kicker">PROFESSIONAL COURSE PARTNER</span>
-          <strong>專業策劃<br />靈活營運</strong>
-          <span className="card-line" />
-          <p>為每一個社區，設計合適的運動節奏。</p>
-        </div>
-        <div className="scroll-cue" aria-hidden="true"><span>SCROLL</span><i /></div>
-      </section>
-
-      <section className="marquee" aria-label="課程種類">
-        <div>YOGA · PILATES · AEROBIC · ZUMBA · LINE DANCE · YOGA · PILATES · AEROBIC · ZUMBA · LINE DANCE ·</div>
-      </section>
-
-      <section className="courses section-pad" id="courses">
-        <div className="section-intro" data-reveal><p className="eyebrow">OUR COURSES</p><h2>五種課程，<br />多元生活節奏。</h2><p>配合不同年齡、體能與興趣，為住戶建立恆常而有吸引力的會所活動。</p></div>
-        <div className="course-list">
-          {courses.map((course) => <article className="course-row" key={course.no} data-reveal><span>{course.no}</span><h3>{course.zh}</h3><p>{course.en}</p><small>{course.note}</small><i>↗</i></article>)}
-        </div>
-      </section>
-
-      <section className="services section-pad" id="services">
-        <div className="services-sticky" data-reveal><p className="eyebrow light">WHY PRO ART</p><h2>把複雜的營運，<br />變成簡單的合作。</h2><p>會所毋須承擔固定成本；課程達到足夠報名人數才開班，讓資源運用更具彈性。</p></div>
-        <div className="benefit-stack">{benefits.map(([no, title, body]) => <article className="benefit-card" key={no} data-reveal><span>{no}</span><div className="benefit-icon" aria-hidden="true">+</div><h3>{title}</h3><p>{body}</p></article>)}</div>
-      </section>
-
-      <section className="proof section-pad" aria-label="合作規模">
-        <div className="proof-copy" data-reveal><p className="eyebrow">TRUSTED EXPERIENCE</p><h2>與香港多間私人屋苑會所長期合作</h2><p>憑穩定教學、清晰溝通與靈活安排，持續為不同社區營運恆常課程。</p></div>
-        <div className="stats">
-          <div data-reveal><strong>4<span>+</span></strong><p>合作會所</p><small>PARTNER CLUBHOUSES</small></div>
-          <div data-reveal><strong>15<span>+</span></strong><p>每週課堂</p><small>CLASSES EVERY WEEK</small></div>
-          <div data-reveal><strong>5</strong><p>課程類別</p><small>COURSE CATEGORIES</small></div>
-        </div>
-        <p className="privacy-note">基於商業及私隱考慮，合作單位資料不作公開展示。</p>
-      </section>
-
-      <section className="model section-pad" id="model">
-        <div className="model-head" data-reveal><p className="eyebrow light">HOW IT WORKS</p><h2>低風險、透明、<br />可持續的合作模式。</h2><div className="split"><strong>60<small>%</small></strong><span>承辦方</span><i /><strong>40<small>%</small></strong><span>會所</span></div><p>按每月實收課程費用分賬，承辦方發出月結賬單；不設會所固定成本。</p></div>
-        <div className="process" aria-label="合作流程">{steps.map(([no, title, body]) => <article key={no} data-reveal><span>{no}</span><div><h3>{title}</h3><p>{body}</p></div></article>)}</div>
-      </section>
-
-      <section className="team section-pad" id="team">
-        <div data-reveal><p className="eyebrow">INSTRUCTOR NETWORK</p><h2>合適的課程，<br />由合適的專業導師帶領。</h2></div>
-        <div className="team-placeholder" data-reveal><div className="team-rings" aria-hidden="true"><i /><i /><i /></div><div><span>COMING SOON</span><h3>導師團隊資料準備中</h3><p>我們按每項課程的需要配對合適合約導師。導師專頁已預留，稍後將加入個人簡介與專長。</p></div></div>
-      </section>
-
-      <section className="contact section-pad" id="contact">
-        <p className="eyebrow light" data-reveal>LET&apos;S WORK TOGETHER</p><div className="contact-grid">
-          <div data-reveal><h2>為您的會所，<br />規劃下一個<br /><em>人氣課程。</em></h2><p>歡迎會所管理團隊、物業管理公司及業主委員會與我們聯絡。</p><a className="button button-gold" href="mailto:proartcompanyhk@gmail.com">電郵查詢 <span>↗</span></a></div>
-          <address data-reveal>
-            <a href="tel:+85296803500"><small>電話 / WHATSAPP</small><strong>+852 9680 3500</strong></a>
-            <a href="mailto:proartcompanyhk@gmail.com"><small>電郵 / EMAIL</small><strong>proartcompanyhk@gmail.com</strong></a>
-            <div><small>辦公室 / OFFICE</small><strong>九龍觀塘觀塘道472–484號<br />觀塘工業中心第3期10樓S室</strong><span>Flat S, 10/F, Block 3, Kwun Tong Industrial Centre, 472–484 Kwun Tong Road, Kwun Tong, Kowloon</span></div>
-          </address>
-        </div>
-      </section>
-
-      <footer><a className="brand footer-brand" href="#top"><span className="brand-mark">PA</span><span>PRO ART <small>COMPANY</small></span></a><p>私人屋苑會所課程承辦商</p><small>© {new Date().getFullYear()} Pro Art Company. All rights reserved.</small></footer>
-    </main>
-  );
+    <section className="team-note" aria-label="導師團隊"><span>INSTRUCTOR NETWORK · COMING SOON</span><h2>專業導師團隊資料準備中</h2><p>我們按每項課程需要配對合適的專業導師；個人簡介與專長將於稍後公開。</p></section>
+    <footer><div className="footer-brand"><span className="brand-disc">PA</span><div><strong>Pro Art Company</strong><span>香港私人屋苑會所嘅專業健身課程夥伴</span></div></div><div className="footer-links"><a href="tel:+85296803500">+852 9680 3500</a><a href="mailto:proartcompanyhk@gmail.com">proartcompanyhk@gmail.com</a></div><address>Flat S, 10/F, Block 3, Kwun Tong Industrial Centre,<br/>472–484 Kwun Tong Road, Kwun Tong, Kowloon</address><small>© {new Date().getFullYear()} Pro Art Company. All rights reserved.</small></footer>
+    <a className="wa-float" href={whatsapp} target="_blank" rel="noreferrer" aria-label="WhatsApp 查詢合作"><span>WA</span><i>查詢合作</i></a>
+  </main>;
 }

diff --git a/app/layout.tsx b/app/layout.tsx
@@ -3,11 +3,11 @@ import "./globals.css";
 
 export const metadata: Metadata = {
   metadataBase: new URL("https://pro-art-company-hk.brks4p8t6v.chatgpt.site"),
-  title: "Pro Art Company｜私人屋苑會所健身課程承辦商",
-  description: "為香港私人屋苑會所提供瑜伽、普拉提、健康舞、尊巴及排舞課程策劃與一站式承辦服務。",
+  title: "Pro Art Company｜香港會所健身課程專業夥伴",
+  description: "為香港私人屋苑會所策劃及承辦瑜伽、普拉提、健康舞、Zumba 及排舞課程。由規劃、導師到行政，一站式妥善處理。",
   icons: { icon: "/favicon.svg", shortcut: "/favicon.svg" },
-  openGraph: { title: "Pro Art Company｜專業會所健身課程承辦", description: "讓會所課程，成為住戶生活的活力日常。", images: ["/og.png"], locale: "zh_HK", type: "website" },
-  twitter: { card: "summary_large_image", title: "Pro Art Company", description: "專業會所健身課程承辦", images: ["/og.png"] },
+  openGraph: { title: "Pro Art Company｜香港會所健身課程專業夥伴", description: "將健康與快樂，帶到每一個屋苑會所。", images: ["/og.png"], locale: "zh_HK", type: "website" },
+  twitter: { card: "summary_large_image", title: "Pro Art Company", description: "將健康與快樂，帶到每一個屋苑會所。", images: ["/og.png"] },
 };
 
 export default function RootLayout({ children }: Readonly<{ children: React.ReactNode }>) {
